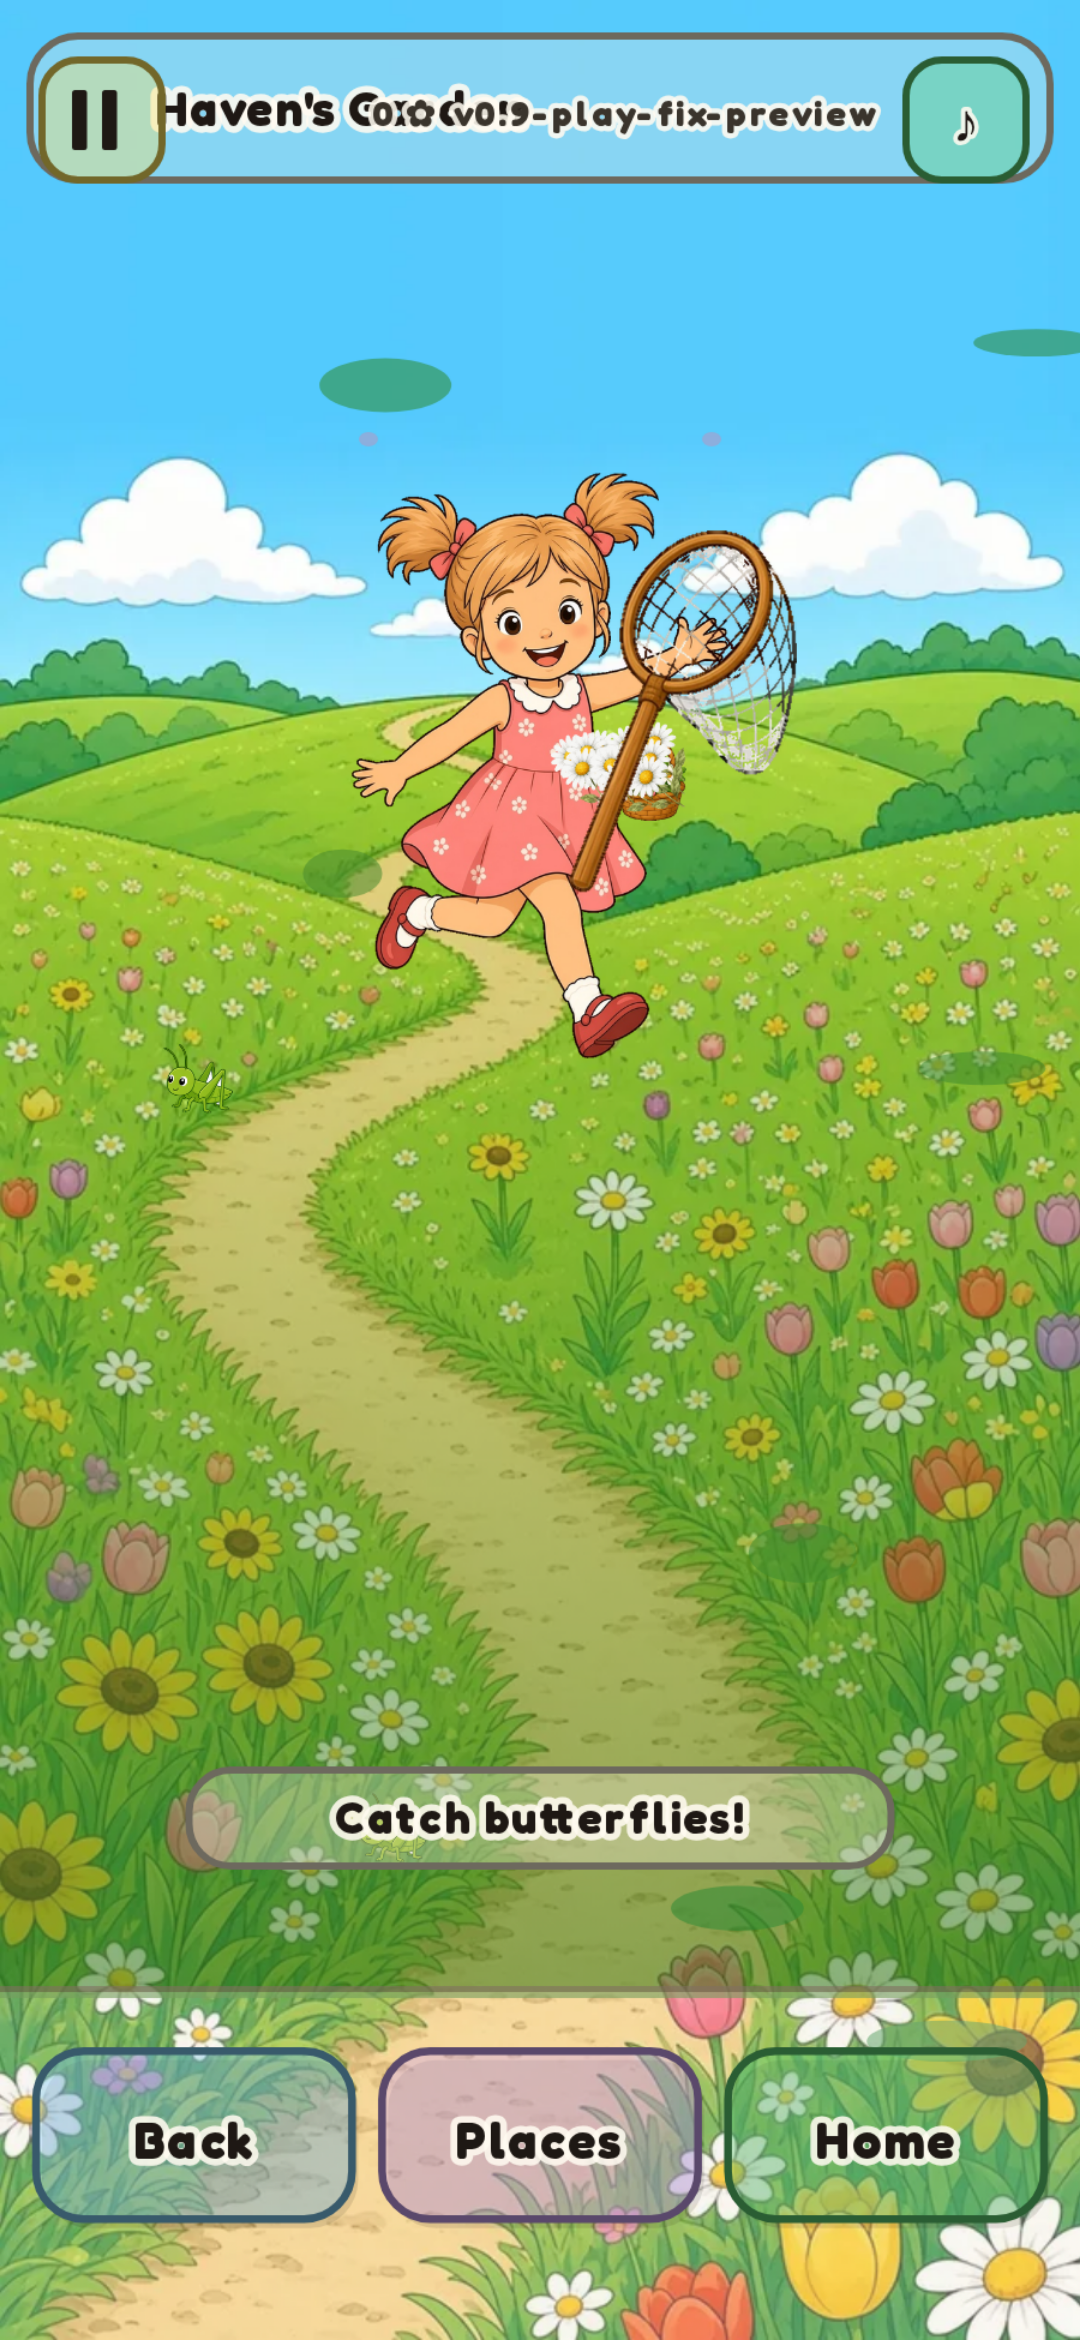
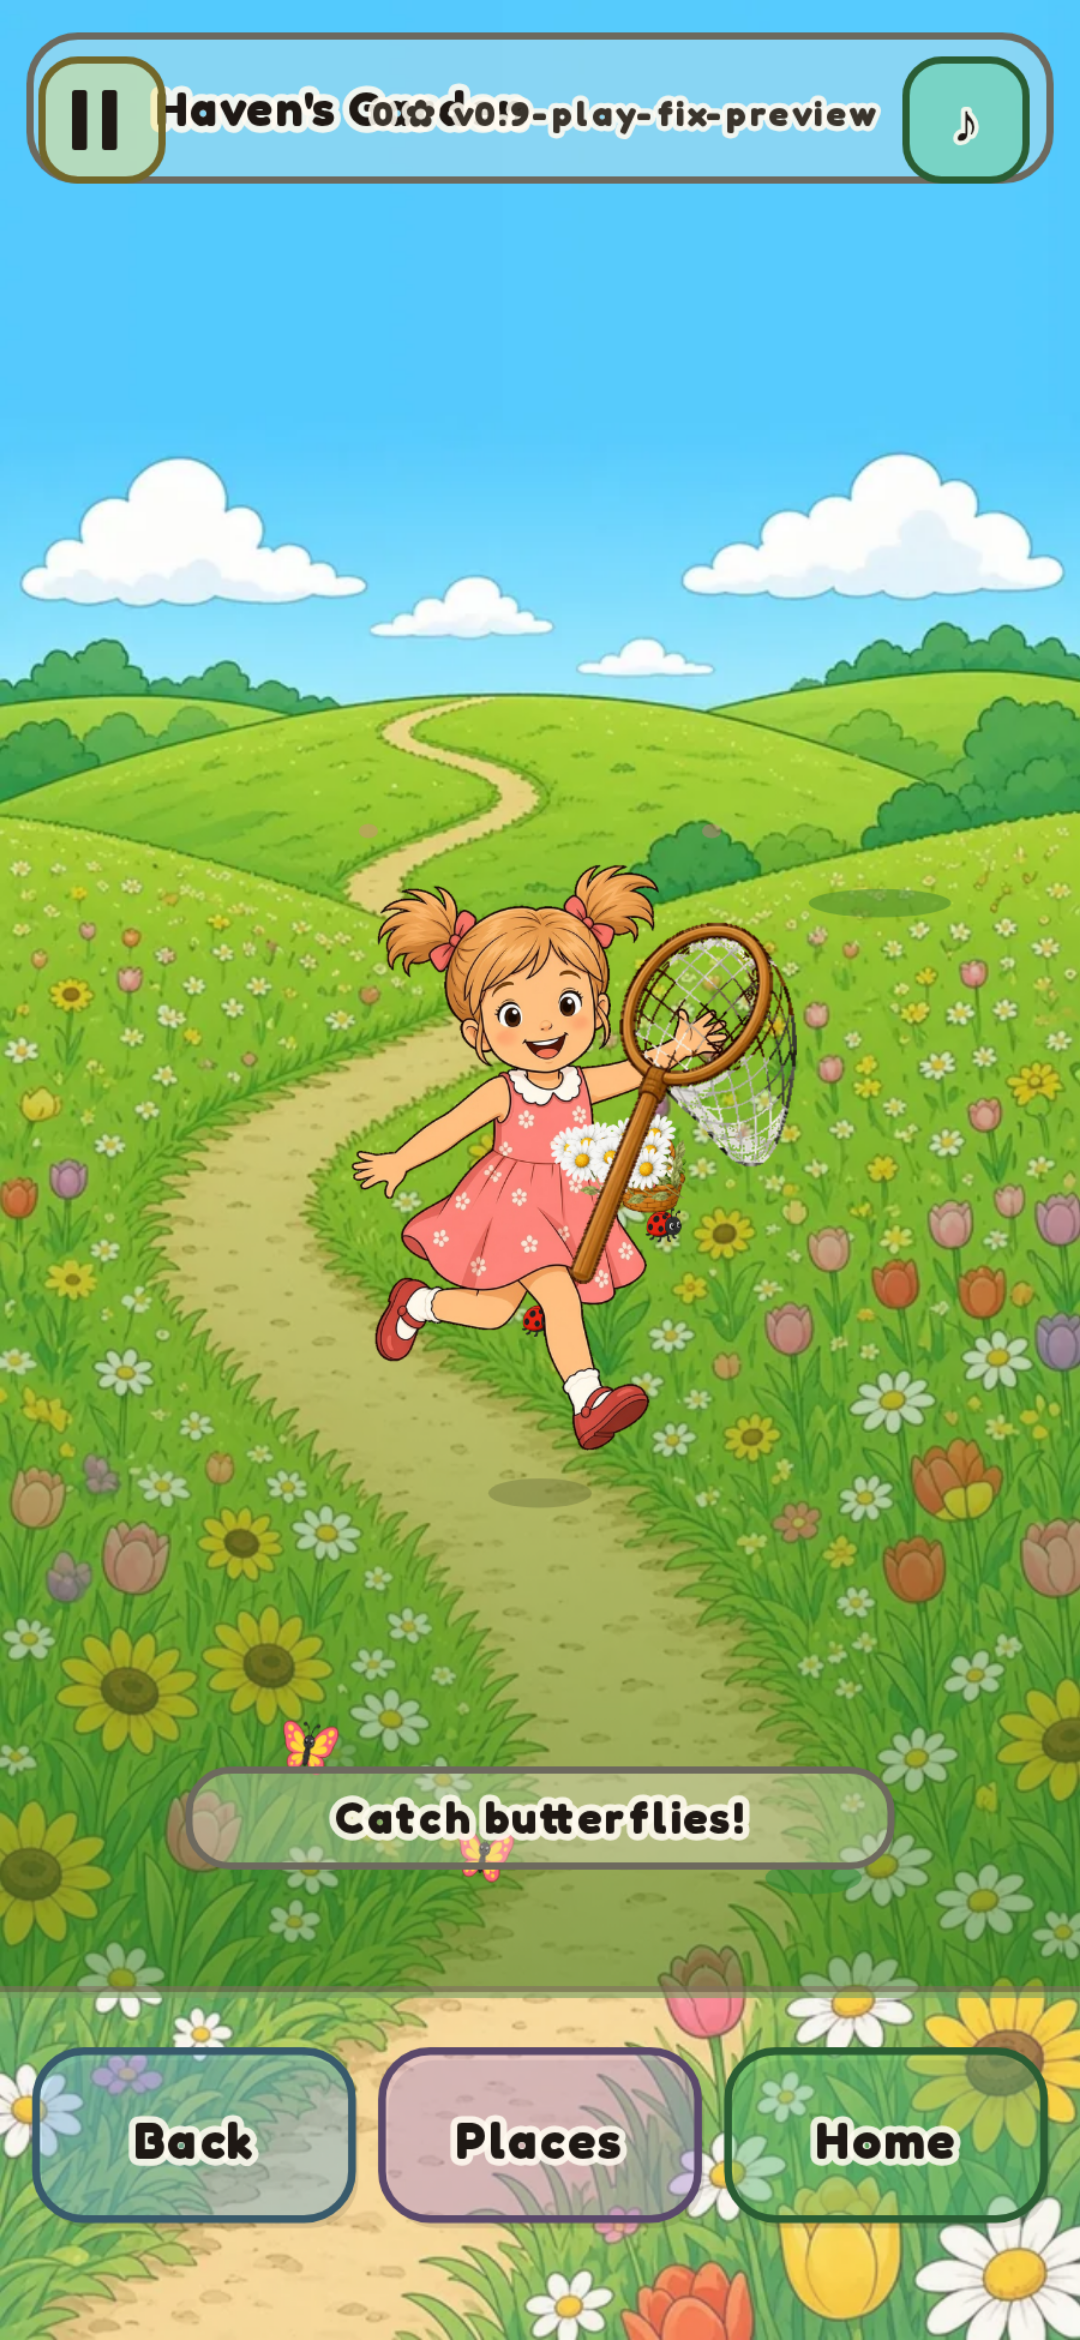
fix(arcade): plant Haven’s idle feet on the meadow path
Idle uses havenFront (not skip/leap), screen foot band sits in the lower
playfield with a contact shadow so boot no longer reads as mid-air float.

diff --git a/arcade/havens-garden-birthday-preview/js/game.js b/arcade/havens-garden-birthday-preview/js/game.js
@@ -595,12 +595,16 @@ function playfieldBot() { return contentBottom(); }
 function fieldTop() { return playfieldTop() + (playfieldBot() - playfieldTop()) * 0.35; }
 function fieldBot() { return playfieldBot() - 8; }
 
+/** Screen Y band for Haven’s feet — lower third so she stands on the meadow path, not sky. */
+function fieldFootScreenY() {
+  return playfieldTop() + (playfieldBot() - playfieldTop()) * 0.72;
+}
 function worldToScreen(wx, wy) {
-  const midY = (playfieldTop() + playfieldBot()) * 0.5;
+  const midY = fieldFootScreenY();
   return { x: wx - cam.x + W * 0.5, y: wy - cam.y + midY };
 }
 function screenToWorld(sx, sy) {
-  const midY = (playfieldTop() + playfieldBot()) * 0.5;
+  const midY = fieldFootScreenY();
   return { x: sx + cam.x - W * 0.5, y: sy + cam.y - midY };
 }
 function clampField(x, y) {
@@ -3407,6 +3411,13 @@ function drawMeadow() {
   });
 
   const gs = worldToScreen(girl.x, girl.y);
+  // Soft contact shadow so feet read as on the ground plane
+  cx.save();
+  cx.fillStyle = 'rgba(40, 50, 20, 0.22)';
+  cx.beginPath();
+  cx.ellipse(gs.x, gs.y + 2, X(28), Y(8), 0, 0, 7);
+  cx.fill();
+  cx.restore();
   drawGirl(gs.x, gs.y, girl.walking || dragging);
 
   if (showDemo && bouquet.length < BOUQUET_GOAL) {
@@ -3439,6 +3450,12 @@ function drawButterflyScene() {
   drawLivingField(skyMode(), {});
   drawFieldBugs();
   const gs = worldToScreen(girl.x, girl.y);
+  cx.save();
+  cx.fillStyle = 'rgba(40, 50, 20, 0.22)';
+  cx.beginPath();
+  cx.ellipse(gs.x, gs.y + 2, X(28), Y(8), 0, 0, 7);
+  cx.fill();
+  cx.restore();
   drawGirl(gs.x, gs.y, girl.walking || dragging);
   drawBugNet(gs.x, gs.y);
   if (netSwing > 0) {

diff --git a/arcade/havens-garden-play-fix-preview/js/game.js b/arcade/havens-garden-play-fix-preview/js/game.js
@@ -595,12 +595,16 @@ function playfieldBot() { return contentBottom(); }
 function fieldTop() { return playfieldTop() + (playfieldBot() - playfieldTop()) * 0.35; }
 function fieldBot() { return playfieldBot() - 8; }
 
+/** Screen Y band for Haven’s feet — lower third so she stands on the meadow path, not sky. */
+function fieldFootScreenY() {
+  return playfieldTop() + (playfieldBot() - playfieldTop()) * 0.72;
+}
 function worldToScreen(wx, wy) {
-  const midY = (playfieldTop() + playfieldBot()) * 0.5;
+  const midY = fieldFootScreenY();
   return { x: wx - cam.x + W * 0.5, y: wy - cam.y + midY };
 }
 function screenToWorld(sx, sy) {
-  const midY = (playfieldTop() + playfieldBot()) * 0.5;
+  const midY = fieldFootScreenY();
   return { x: sx + cam.x - W * 0.5, y: sy + cam.y - midY };
 }
 function clampField(x, y) {
@@ -3407,6 +3411,13 @@ function drawMeadow() {
   });
 
   const gs = worldToScreen(girl.x, girl.y);
+  // Soft contact shadow so feet read as on the ground plane
+  cx.save();
+  cx.fillStyle = 'rgba(40, 50, 20, 0.22)';
+  cx.beginPath();
+  cx.ellipse(gs.x, gs.y + 2, X(28), Y(8), 0, 0, 7);
+  cx.fill();
+  cx.restore();
   drawGirl(gs.x, gs.y, girl.walking || dragging);
 
   if (showDemo && bouquet.length < BOUQUET_GOAL) {
@@ -3439,6 +3450,12 @@ function drawButterflyScene() {
   drawLivingField(skyMode(), {});
   drawFieldBugs();
   const gs = worldToScreen(girl.x, girl.y);
+  cx.save();
+  cx.fillStyle = 'rgba(40, 50, 20, 0.22)';
+  cx.beginPath();
+  cx.ellipse(gs.x, gs.y + 2, X(28), Y(8), 0, 0, 7);
+  cx.fill();
+  cx.restore();
   drawGirl(gs.x, gs.y, girl.walking || dragging);
   drawBugNet(gs.x, gs.y);
   if (netSwing > 0) {

diff --git a/arcade/havens-garden-birthday-preview/tests/07-play-structure.spec.js b/arcade/havens-garden-birthday-preview/tests/07-play-structure.spec.js
@@ -53,6 +53,15 @@ test.describe('play-structure fix', () => {
     // Feet in ground band of the field (not floating in upper sky)
     expect(info.girlY).toBeGreaterThan(900);
     expect(info.girlPose).toBe('idle');
+    // Screen feet should sit in the lower playfield (path), not mid-sky
+    const screenY = await page.evaluate(() => {
+      const g = HavensGarden.getGirl();
+      const cv = document.querySelector('canvas');
+      const H = cv.getBoundingClientRect().height;
+      // Approximate: worldToScreen with cam following → ~72% of playfield
+      return { approxFootFrac: 0.72, H };
+    });
+    expect(screenY.approxFootFrac).toBeGreaterThan(0.6);
     expect(info.bugs.length).toBe(0);
     expect(info.critters.every((k) => k === 'butterfly')).toBeTruthy();
     // No counter-as-toast

diff --git a/arcade/havens-garden-birthday-preview/js/assets.js b/arcade/havens-garden-birthday-preview/js/assets.js
@@ -334,12 +334,13 @@ const Assets = {
 
   pose(name) {
     const map = {
-      idle: 'havenSkip', run: 'havenRun', jump: 'havenJump', pick: 'havenPick',
+      // Idle must be planted feet (havenFront) — havenSkip reads as a mid-air leap
+      idle: 'havenFront', run: 'havenRun', jump: 'havenJump', pick: 'havenPick',
       chase: 'havenChase', skip: 'havenSkip', plant: 'havenPlant', water: 'havenPlant',
-      front: 'havenSkip', walk: 'havenRun'
+      front: 'havenFront', walk: 'havenRun'
     };
-    const k = map[name] || 'havenSkip';
-    return this.get(k) || this.get('havenFront');
+    const k = map[name] || 'havenFront';
+    return this.get(k) || this.get('havenSkip') || this.get('havenFront');
   },
 
   cbnPage(stem) { return this.get(cbnAssetKey(stem, 'page')); },

diff --git a/arcade/havens-garden-play-fix-preview/js/assets.js b/arcade/havens-garden-play-fix-preview/js/assets.js
@@ -334,12 +334,13 @@ const Assets = {
 
   pose(name) {
     const map = {
-      idle: 'havenSkip', run: 'havenRun', jump: 'havenJump', pick: 'havenPick',
+      // Idle must be planted feet (havenFront) — havenSkip reads as a mid-air leap
+      idle: 'havenFront', run: 'havenRun', jump: 'havenJump', pick: 'havenPick',
       chase: 'havenChase', skip: 'havenSkip', plant: 'havenPlant', water: 'havenPlant',
-      front: 'havenSkip', walk: 'havenRun'
+      front: 'havenFront', walk: 'havenRun'
     };
-    const k = map[name] || 'havenSkip';
-    return this.get(k) || this.get('havenFront');
+    const k = map[name] || 'havenFront';
+    return this.get(k) || this.get('havenSkip') || this.get('havenFront');
   },
 
   cbnPage(stem) { return this.get(cbnAssetKey(stem, 'page')); },

diff --git a/arcade/havens-garden-birthday-preview/js/haven-anim.js b/arcade/havens-garden-birthday-preview/js/haven-anim.js
@@ -230,8 +230,8 @@ const HavenAnim = (() => {
       if (w) return w;
       return Assets.walkFrame(walkFrame);
     }
-    // Idle: standing skip/front — never jump (jump read as mid-air float)
-    return Assets.pose('idle') || Assets.get('havenSkip') || Assets.get('havenFront');
+    // Idle: planted front stance — never skip/jump (those read as mid-air float)
+    return Assets.get('havenFront') || Assets.pose('idle') || Assets.get('havenSkip');
   }
 
   /**

diff --git a/arcade/havens-garden-play-fix-preview/js/haven-anim.js b/arcade/havens-garden-play-fix-preview/js/haven-anim.js
@@ -230,8 +230,8 @@ const HavenAnim = (() => {
       if (w) return w;
       return Assets.walkFrame(walkFrame);
     }
-    // Idle: standing skip/front — never jump (jump read as mid-air float)
-    return Assets.pose('idle') || Assets.get('havenSkip') || Assets.get('havenFront');
+    // Idle: planted front stance — never skip/jump (those read as mid-air float)
+    return Assets.get('havenFront') || Assets.pose('idle') || Assets.get('havenSkip');
   }
 
   /**
